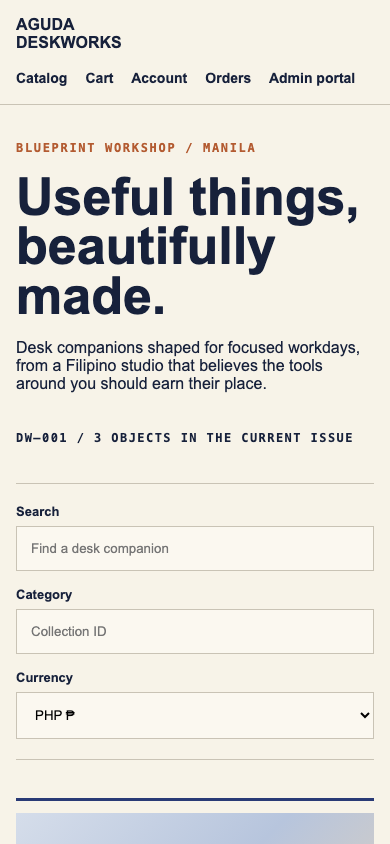
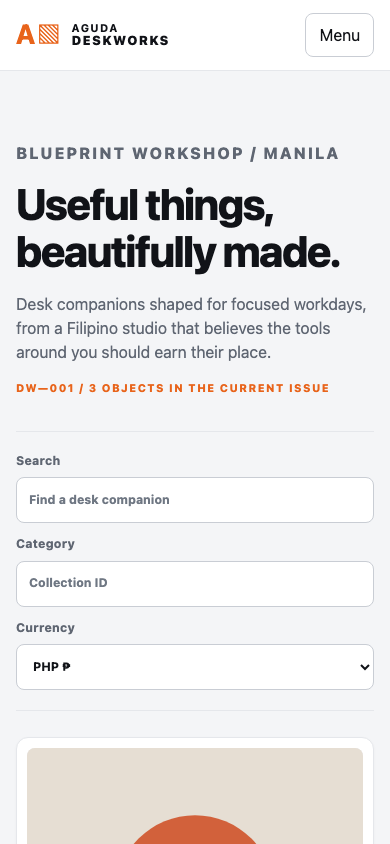
style: refresh storefront design system

diff --git a/apps/storefront/src/app/globals.css b/apps/storefront/src/app/globals.css
@@ -1,7 +1,109 @@
-:root { --paper:#f7f3e8; --indigo:#172a52; --mango:#f4b942; --line:#b8c4d5; --ink:#172a52; --muted:#52627b; --success:#176b4d; --danger:#a43a3a; --warning:#8a5b00; --shadow:0 12px 30px rgba(23,42,82,.10); }
-* { box-sizing:border-box; } html { scroll-behavior:smooth; } body { margin:0; color:var(--ink); background-color:var(--paper); background-image:linear-gradient(rgba(23,42,82,.045) 1px,transparent 1px),linear-gradient(90deg,rgba(23,42,82,.045) 1px,transparent 1px); background-size:24px 24px; font-family:ui-sans-serif,system-ui,sans-serif; line-height:1.5; } a { color:inherit; text-decoration:none; } a:hover { text-decoration:underline; } h1,h2,h3 { font-family:Georgia,serif; line-height:1.05; } h1 { font-size:clamp(2.6rem,7vw,6.2rem); margin:.4rem 0 1rem; letter-spacing:-.045em; } h2 { font-size:clamp(1.4rem,3vw,2rem); } button,input,select { font:inherit; } button { cursor:pointer; } button:disabled { cursor:not-allowed; opacity:.5; } :focus-visible { outline:3px solid var(--mango); outline-offset:3px; }
-.site-header { background:var(--indigo); color:var(--paper); position:sticky; top:0; z-index:5; border-bottom:4px solid var(--mango); } .header-inner { max-width:1200px; margin:auto; padding:14px 24px; display:flex; gap:28px; align-items:center; justify-content:space-between; } .brand { display:flex; align-items:center; gap:10px; font:700 .73rem/1.05 ui-monospace,monospace; letter-spacing:.08em; } .brand-mark { color:var(--mango); font-size:2.1rem; line-height:1; } .brand b { font-size:.95rem; } .site-nav { display:flex; gap:20px; font-weight:700; } .site-nav a { padding:10px 4px; } .menu-toggle { display:none; border:1px solid var(--line); color:var(--paper); background:transparent; padding:10px 14px; } .skip-link { position:absolute; left:12px; top:-100px; background:var(--mango); color:var(--indigo); padding:10px; z-index:10; } .skip-link:focus { top:12px; }
-.site-footer { max-width:1200px; margin:48px auto 0; padding:20px 24px 32px; border-top:1px solid var(--line); display:flex; justify-content:space-between; color:var(--muted); font:700 .68rem ui-monospace,monospace; letter-spacing:.08em; }
-.catalog-shell,.detail-shell,.account-shell { max-width:1200px; margin:auto; padding:48px 24px 72px; } .catalog-header { max-width:780px; padding:50px 0 34px; } .eyebrow,.annotation { color:var(--warning); font:700 .72rem ui-monospace,monospace; letter-spacing:.14em; text-transform:uppercase; } .catalog-header p { font-size:1.15rem; max-width:580px; } .catalog-header .annotation { font-size:.7rem; } .catalog-controls { display:grid; grid-template-columns:2fr 1fr 1fr; gap:16px; padding:18px 0; border-block:1px solid var(--line); } label { display:grid; gap:7px; font-weight:700; font-size:.82rem; } input,select { border:1px solid var(--line); background:rgba(247,243,232,.85); min-height:46px; padding:10px 12px; color:var(--ink); } .button { min-height:46px; border:1px solid var(--indigo); padding:10px 18px; background:var(--indigo); color:var(--paper); font-weight:800; } .button-secondary { background:transparent; color:var(--indigo); } .product-grid { display:grid; grid-template-columns:repeat(3,1fr); gap:24px; padding:36px 0; } .product-card { border-top:3px solid var(--indigo); padding-top:12px; } .product-card img { width:100%; aspect-ratio:1; object-fit:cover; background:#dce3ed; mix-blend-mode:multiply; } .product-card h2 { margin:.7rem 0 .2rem; } .product-card p { margin:.3rem 0; } .utility { font:700 .72rem ui-monospace,monospace; letter-spacing:.05em; } .available,.status-paid,.status-delivered,.status-shipped { color:var(--success); font-weight:800; } .sold-out,.status-cancelled { color:var(--danger); font-weight:800; } .state { padding:64px 0; color:var(--muted); } .error { color:var(--danger); } .pagination { display:flex; justify-content:space-between; align-items:center; border-top:1px solid var(--line); padding-top:18px; } .detail { display:grid; grid-template-columns:minmax(0,1.2fr) minmax(300px,.8fr); gap:52px; margin-top:30px; } .detail-images { display:grid; grid-template-columns:repeat(2,1fr); gap:12px; } .detail-images img { width:100%; background:#dce3ed; mix-blend-mode:multiply; } .price { font:700 1.6rem ui-monospace,monospace; } .detail-copy { align-self:center; } .account-shell { max-width:720px; } .account-shell form,.account-shell section,.stack { display:grid; gap:16px; } .account-shell h1 { font-size:clamp(2.8rem,8vw,5rem); } .field-help { color:var(--muted); font-size:.84rem; margin:0; } fieldset { border:1px solid var(--line); padding:16px; display:grid; gap:12px; } .summary-error { border-left:4px solid var(--danger); padding:12px 16px; background:#f5dfd7; color:var(--danger); } .order-card { border:1px solid var(--line); padding:20px; margin:16px 0; background:rgba(247,243,232,.78); box-shadow:var(--shadow); } .order-card ul { padding-left:20px; } .status-chip { display:inline-block; padding:5px 9px; border:1px solid currentColor; border-radius:99px; font:700 .72rem ui-monospace,monospace; text-transform:uppercase; } .status-pending { color:var(--warning); } .totals { margin:24px 0; border-top:1px solid var(--line); } .totals div { display:flex; justify-content:space-between; padding:8px 0; } .totals dd { margin:0; font-family:ui-monospace,monospace; } .total-line { border-top:2px solid var(--indigo); font-weight:900; font-size:1.15rem; margin-top:6px; padding-top:14px!important; }
-@media (max-width:700px) { .header-inner { padding:12px 16px; align-items:flex-start; flex-wrap:wrap; } .menu-toggle { display:none; } .site-nav,.site-nav.is-open { display:flex; width:100%; position:static; padding:0; flex-direction:row; flex-wrap:wrap; gap:8px 16px; border:0; } .site-nav a { padding:6px 0; font-size:.9rem; } .catalog-shell,.detail-shell,.account-shell { padding:32px 16px 52px; } .catalog-header { padding:24px 0 22px; } .catalog-controls,.product-grid,.detail { grid-template-columns:1fr; } .detail-images { grid-template-columns:1fr 1fr; } .site-footer { margin-top:28px; padding-inline:16px; flex-direction:column; gap:8px; } }
-@media (prefers-reduced-motion:reduce) { *,*::before,*::after { scroll-behavior:auto!important; transition-duration:.01ms!important; animation-duration:.01ms!important; } }
+/* style-10032026-Maurice: calm Company Intelligence tokens translated into the AGUDA catalog, product, cart, checkout, account, and order surfaces. */
+:root {
+  --surface: #f4f5f7;
+  --surface-raised: #ffffff;
+  --surface-tint: #fdebdd;
+  --ink: #111318;
+  --muted: #5f6672;
+  --line: #e5e7eb;
+  --line-strong: #c9cdd4;
+  --orange: #e8641b;
+  --orange-soft: #f29a4e;
+  --orange-pale: #fdebdd;
+  --success: #16a34a;
+  --danger: #dc2626;
+  --warning: #a16207;
+  --teal: #2aa6b5;
+  --shadow: 0 4px 16px rgba(17, 19, 24, .06);
+  --shadow-soft: 0 1px 3px rgba(17, 19, 24, .04);
+}
+
+* { box-sizing: border-box; }
+html { scroll-behavior: smooth; }
+body { margin: 0; color: var(--ink); background: var(--surface); font-family: Inter, ui-sans-serif, system-ui, -apple-system, BlinkMacSystemFont, "Segoe UI", sans-serif; line-height: 1.5; }
+a { color: inherit; text-decoration: none; }
+a:hover { color: var(--orange); }
+h1, h2, h3 { font-weight: 750; line-height: 1.08; letter-spacing: -.035em; }
+h1 { font-size: clamp(2.7rem, 5.8vw, 5.5rem); margin: .35rem 0 1.1rem; max-width: 760px; }
+h2 { font-size: clamp(1.25rem, 2vw, 1.6rem); }
+button, input, select { font: inherit; }
+button { cursor: pointer; }
+button:disabled { cursor: not-allowed; opacity: .5; }
+:focus-visible { outline: 3px solid var(--orange); outline-offset: 3px; }
+
+.site-header { position: sticky; top: 0; z-index: 5; border-bottom: 1px solid var(--line); background: rgba(255,255,255,.96); color: var(--ink); backdrop-filter: blur(14px); }
+.header-inner { max-width: 1240px; margin: auto; padding: 16px 28px; display: flex; gap: 28px; align-items: center; justify-content: space-between; }
+.brand { display: flex; align-items: center; gap: 10px; font-size: .68rem; line-height: 1.1; font-weight: 750; letter-spacing: .12em; }
+.brand-mark { color: var(--orange); font-size: 1.7rem; line-height: 1; }
+.brand b { font-size: .8rem; }
+.site-nav { display: flex; gap: 22px; align-items: center; font-size: .87rem; font-weight: 650; }
+.site-nav a { padding: 8px 0; }
+.menu-toggle { display: none; min-height: 44px; border: 1px solid var(--line-strong); border-radius: 8px; color: var(--ink); background: var(--surface-raised); padding: 9px 13px; }
+.skip-link { position: absolute; left: 12px; top: -100px; background: var(--orange); color: #fff; padding: 10px 14px; z-index: 10; border-radius: 6px; }
+.skip-link:focus { top: 12px; }
+.site-footer { max-width: 1240px; margin: 48px auto 0; padding: 22px 28px 34px; border-top: 1px solid var(--line); display: flex; justify-content: space-between; color: var(--muted); font-size: .68rem; font-weight: 700; letter-spacing: .08em; }
+
+.catalog-shell, .detail-shell, .account-shell { max-width: 1240px; margin: auto; padding: 44px 28px 80px; }
+.catalog-header { max-width: 820px; padding: 54px 0 38px; }
+.eyebrow, .annotation { color: var(--orange); font-size: .7rem; font-weight: 800; letter-spacing: .13em; text-transform: uppercase; }
+.catalog-header p { color: var(--muted); font-size: 1.1rem; max-width: 620px; }
+.catalog-header .annotation { color: var(--orange); font-size: .68rem; }
+.catalog-controls { display: grid; grid-template-columns: 2fr 1fr 1fr; gap: 16px; padding: 20px 0; border-block: 1px solid var(--line); }
+label { display: grid; gap: 7px; color: var(--muted); font-size: .76rem; font-weight: 750; letter-spacing: .02em; }
+input, select { width: 100%; min-height: 46px; border: 1px solid var(--line-strong); border-radius: 8px; background: var(--surface-raised); color: var(--ink); padding: 10px 12px; }
+input::placeholder { color: #6f7783; }
+input:hover, select:hover { border-color: var(--orange-soft); }
+.button { min-height: 46px; border: 1px solid var(--orange); border-radius: 8px; padding: 10px 18px; background: var(--orange); color: #fff; font-weight: 750; transition: background .16s ease, transform .16s ease, box-shadow .16s ease; }
+.button:hover:not(:disabled) { background: #c95112; color: #fff; box-shadow: 0 6px 15px rgba(232,100,27,.18); transform: translateY(-1px); }
+.button-secondary { border-color: var(--line-strong); background: var(--surface-raised); color: var(--ink); }
+.button-secondary:hover:not(:disabled) { border-color: var(--orange); background: var(--orange-pale); color: var(--ink); }
+.product-grid { display: grid; grid-template-columns: repeat(4, minmax(0, 1fr)); gap: 22px; padding: 36px 0 42px; }
+.product-card { min-width: 0; border: 1px solid var(--line); border-radius: 12px; padding: 10px 10px 18px; background: var(--surface-raised); box-shadow: var(--shadow-soft); transition: border-color .16s ease, box-shadow .16s ease, transform .16s ease; }
+.product-card:hover { border-color: var(--orange-soft); box-shadow: var(--shadow); transform: translateY(-2px); }
+.product-card img { display: block; width: 100%; aspect-ratio: 1; object-fit: cover; border-radius: 8px; background: #e6e8ec; }
+.product-card h2 { margin: 15px 5px 4px; }
+.product-card p { margin: .3rem 5px; }
+.utility, .price, .totals dd { font-variant-numeric: tabular-nums; }
+.utility { color: var(--muted); font-size: .72rem; font-weight: 750; letter-spacing: .05em; }
+.available, .status-paid, .status-delivered, .status-shipped { color: var(--success); font-weight: 750; }
+.sold-out, .status-cancelled { color: var(--danger); font-weight: 750; }
+.status-pending { color: var(--warning); font-weight: 750; }
+.state { padding: 64px 0; color: var(--muted); }
+.error { color: var(--danger); }
+.pagination { display: flex; justify-content: space-between; align-items: center; border-top: 1px solid var(--line); padding-top: 18px; }
+.detail { display: grid; grid-template-columns: minmax(0, 1.2fr) minmax(300px, .8fr); gap: 52px; margin-top: 30px; }
+.detail-images { display: grid; grid-template-columns: repeat(2, 1fr); gap: 12px; }
+.detail-images img { width: 100%; border-radius: 10px; background: #e6e8ec; }
+.price { color: var(--orange); font-size: 1.6rem; font-weight: 750; }
+.detail-copy { align-self: center; }
+.status-chip { display: inline-flex; border-radius: 999px; background: var(--surface-tint); padding: 4px 10px; font-size: .72rem; font-weight: 750; }
+.account-shell { max-width: 720px; }
+.account-shell form, .account-shell section, .stack { display: grid; gap: 16px; }
+.account-shell h1 { font-size: clamp(2.8rem, 8vw, 5rem); }
+.field-help { color: var(--muted); font-size: .84rem; margin: 0; }
+fieldset { border: 1px solid var(--line); border-radius: 8px; padding: 16px; display: grid; gap: 12px; }
+.summary-error { border-left: 4px solid var(--danger); border-radius: 8px; padding: 12px 16px; background: #fef2f2; color: #991b1b; }
+.order-card { border: 1px solid var(--line); border-radius: 12px; padding: 20px; margin: 16px 0; background: var(--surface-raised); box-shadow: var(--shadow-soft); }
+.order-card ul { padding-left: 20px; }
+.totals { display: grid; gap: 10px; margin: 24px 0; }
+.totals div { display: flex; justify-content: space-between; }
+.totals dd { margin: 0; }
+.total-line { border-top: 1px solid var(--line); padding-top: 12px; font-weight: 800; }
+
+@media (max-width: 1050px) { .product-grid { grid-template-columns: repeat(2, minmax(0, 1fr)); } }
+@media (max-width: 700px) {
+  .header-inner { padding: 13px 16px; flex-wrap: wrap; }
+  .menu-toggle { display: block; }
+  .site-nav { display: none; }
+  .site-nav.is-open { display: flex; width: 100%; padding: 4px 0 0; flex-wrap: wrap; gap: 8px 18px; }
+  .site-nav a { padding: 6px 0; font-size: .86rem; }
+  .catalog-shell, .detail-shell, .account-shell { padding: 28px 16px 56px; }
+  .catalog-header { padding: 26px 0 24px; }
+  .catalog-header p { font-size: 1rem; }
+  .catalog-controls, .product-grid, .detail { grid-template-columns: 1fr; }
+  .catalog-controls { gap: 12px; }
+  .product-grid { padding-top: 26px; }
+  .detail-images { grid-template-columns: 1fr 1fr; }
+  .site-footer { margin-top: 28px; padding-inline: 16px; flex-direction: column; gap: 8px; }
+}
+@media (prefers-reduced-motion: reduce) { *, *::before, *::after { scroll-behavior: auto !important; transition-duration: .01ms !important; animation-duration: .01ms !important; } }
